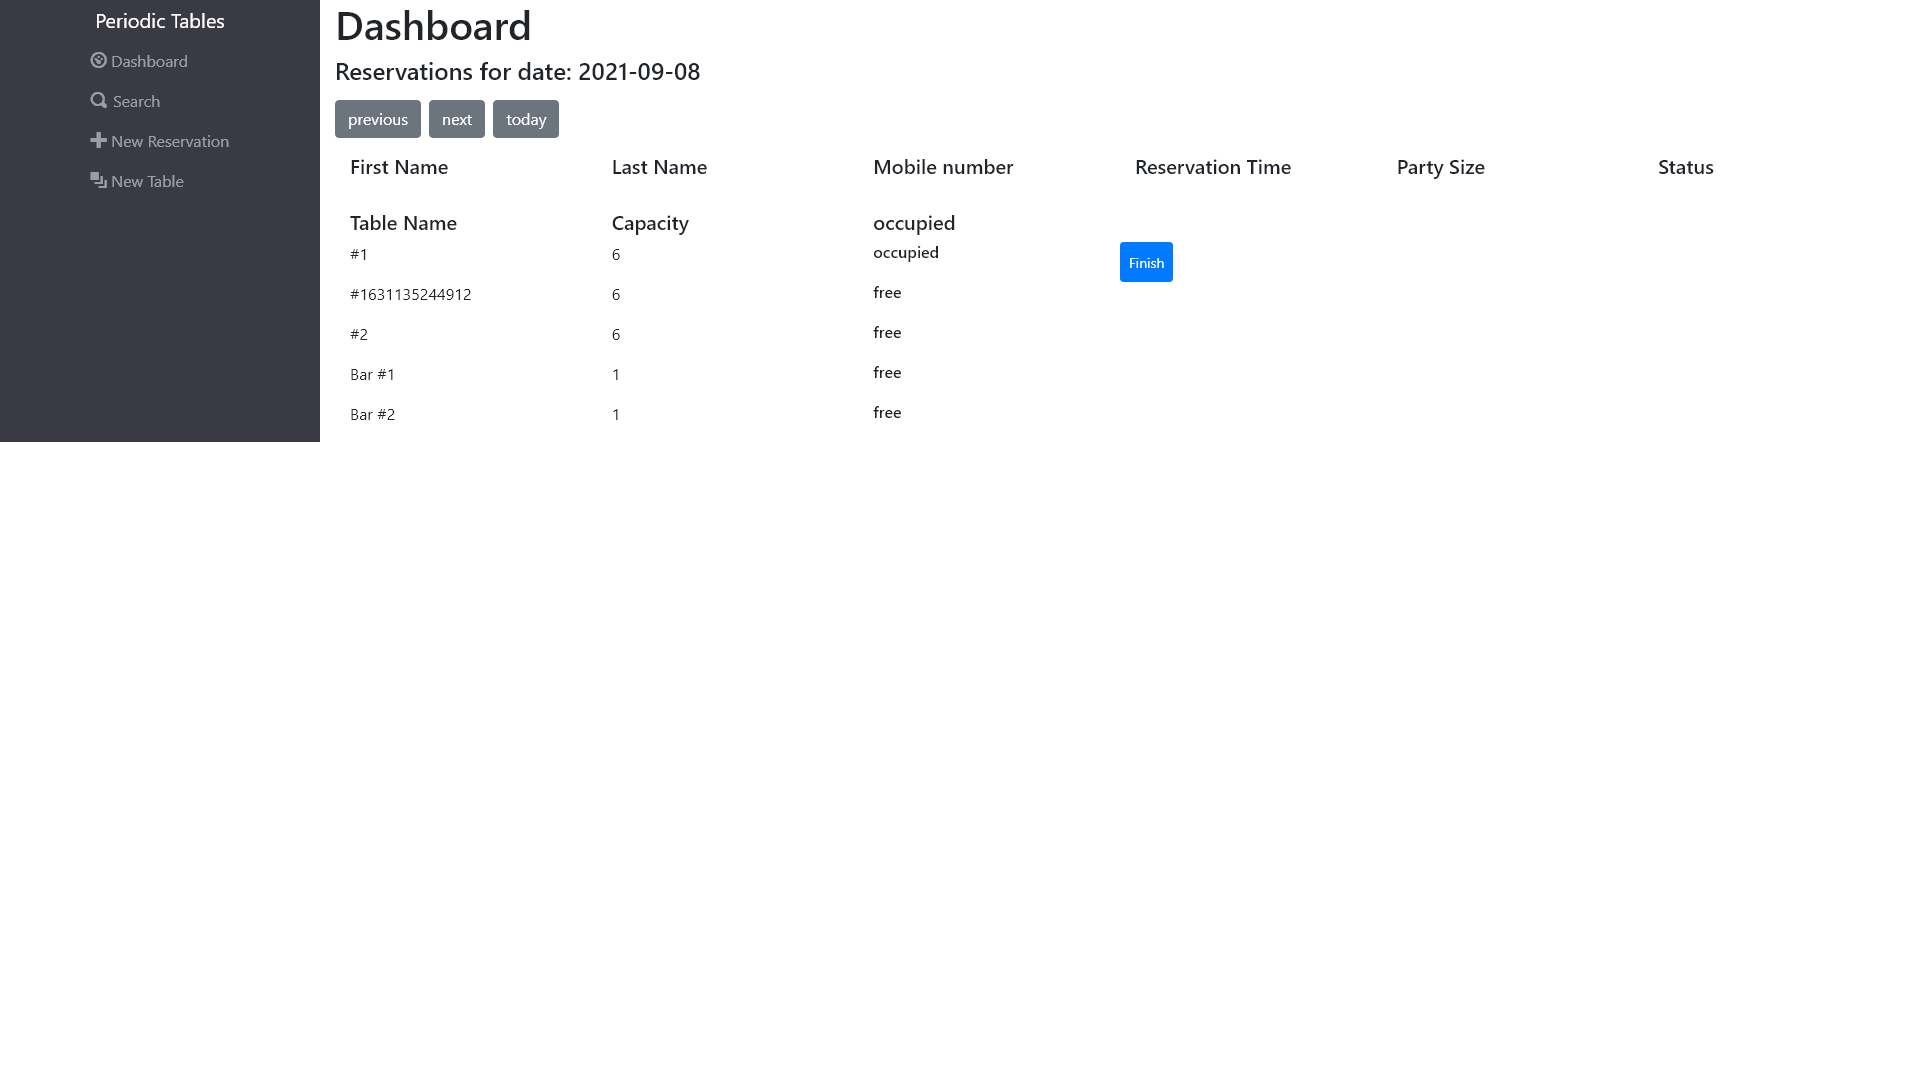
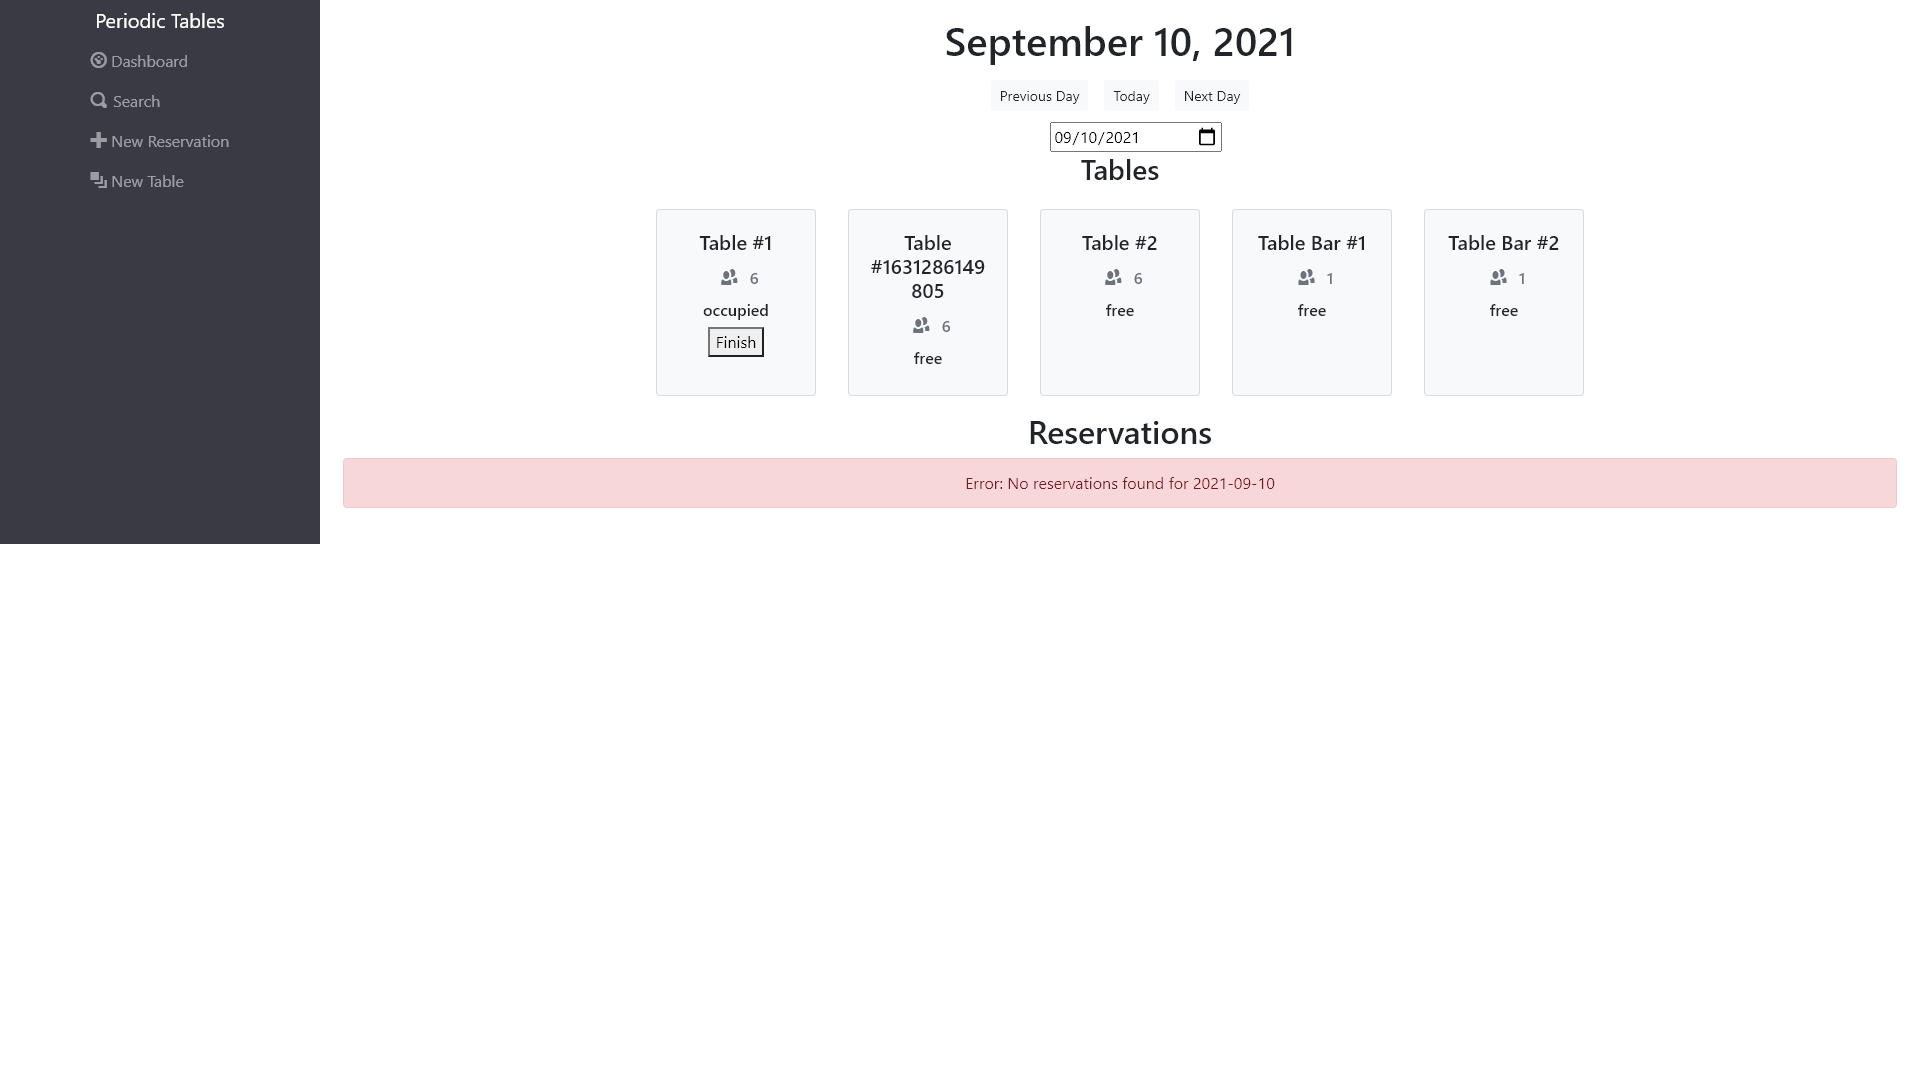
minor front end polishing; app fully functional; ready to deploy

diff --git a/src/tables/Tables.js b/src/tables/Tables.js
@@ -34,35 +34,33 @@ function Tables() {
   };
 
   const tableContent = tables.map((table) => (
-    <>
-      <div
-        className="card m-3 bg-light"
-        key={table.table_id}
-        style={{ width: "10rem" }}
-      >
-        <div className="card-body">
-          <h5 className="card-title">Table {table.table_name}</h5>
-          <h6 className="card-subtitle mb-2 text-muted">
-            <span className="oi oi-people m-2"> </span> {table.capacity}
-          </h6>
-          {table.reservation_id ? (
-            <h6 data-table-id-status={table.table_id}>occupied</h6>
-          ) : (
-            <h6 data-table-id-status={table.table_id}>free</h6>
-          )}
-          {table.reservation_id ? (
-            <button
-              data-table-id-finish={table.table_id}
-              onClick={handleFinish}
-            >
-              Finish
-            </button>
-          ) : (
-            ""
-          )}
-        </div>
+    <div
+      className="card m-3 bg-light"
+      key={table.table_id}
+      style={{ width: "10rem" }}
+    >
+      <div className="card-body">
+        <h5 className="card-title">Table {table.table_name}</h5>
+        <h6 className="card-subtitle mb-2 text-muted">
+          <span className="oi oi-people m-2"> </span> {table.capacity}
+        </h6>
+        {table.reservation_id ? (
+          <h6 data-table-id-status={table.table_id}>occupied</h6>
+        ) : (
+          <h6 data-table-id-status={table.table_id}>free</h6>
+        )}
+        {table.reservation_id ? (
+          <button
+            data-table-id-finish={table.table_id}
+            onClick={() => handleFinish(table)}
+          >
+            Finish
+          </button>
+        ) : (
+          ""
+        )}
       </div>
-    </>
+    </div>
   ));
 
   return (

diff --git a/e2e/us-05-finish-occupied-table.test.js b/e2e/us-05-finish-occupied-table.test.js
@@ -19,7 +19,7 @@ describe("US-05 - Finish an occupied table - E2E", () => {
 
   beforeAll(async () => {
     await fsPromises.mkdir("./.screenshots", { recursive: true });
-    setDefaultOptions({ timeout: 6000 });
+    setDefaultOptions({ timeout: 10000 });
     browser = await puppeteer.launch();
   });
 
@@ -84,6 +84,7 @@ describe("US-05 - Finish an occupied table - E2E", () => {
       await page.waitForResponse((response) => {
         return response.url().endsWith(`/tables`);
       });
+      console.log("4");
 
       await page.screenshot({
         path: ".screenshots/us-05-dashboard-finish-button-after.png",

diff --git a/src/dashboard/Dashboard.js b/src/dashboard/Dashboard.js
@@ -36,8 +36,6 @@ function Dashboard({ date }) {
   return (
     <main className="text-center">
       <h1 className="m-3">{formatDate(date)}</h1>
-
-      {/* <div className="mb-3"> */}
       <button
         className="btn btn-sm btn-light"
         onClick={() => handlePreviousDate(date)}
@@ -65,9 +63,7 @@ function Dashboard({ date }) {
         onChange={handleDateChange}
         value={date}
       />
-      {/* </div> */}
       <Tables />
-
       <Reservations date={date} />
     </main>
   );

diff --git a/src/seating/SeatForm.js b/src/seating/SeatForm.js
@@ -14,7 +14,7 @@ function SeatForm({ handleChange, handleSubmit, tables, history }) {
           Table Name:
         </label>
         <select name="table_id" required={true} onChange={handleChange}>
-          {/* <option value=""></option> */}
+          <option value=""></option>
           {options}
         </select>
         <br />
